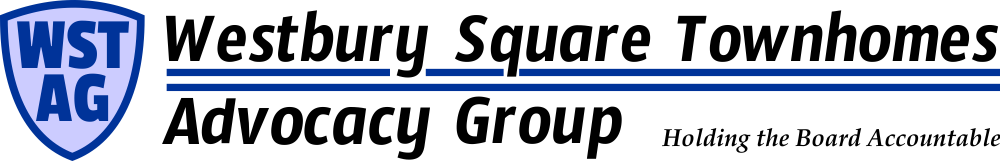
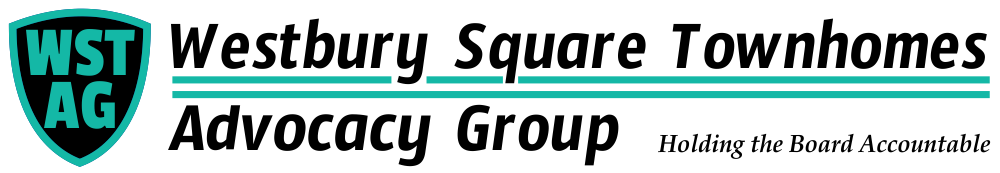
May5-A

diff --git a/src/app/home/panel-bottom/panel-bottom.component.html b/src/app/home/panel-bottom/panel-bottom.component.html
@@ -1,22 +1,28 @@
 <div class="sidebar-container">
-    <div class="not-sidebar">
-      <div class="paragraph-header">By-Laws Update</div>
-      <p-divider></p-divider>
-      <div class="paragraph-copy">
-        Below is the opening paragraph to the current WST By-laws.  As is obvious, they were written by and for the original developer, not the homeowners.  
-        They are therefore heavily skewed toward a powerful president rather than a limited and accountable one.<br>
-        It is a the top priority of WSTAG to update the WST by-laws so homeowners have a greater say in how their investment is managed.<br>
-        To participate in the process, sign in to your account and go to the Forum.
-      </div>
-      <p-divider></p-divider>
-      <div class="paragraph-copy">
-        WHEREAS, ZAR PROPERTIES, LTD., a California limited partnership authorized to do business in the State of Texas, is the sole owner of the real property hereinafter described, and is improving and developing said property by converting to a condominium project thereon, consisting of 14 one (1) and two (2) story buildings, containing a total of one hundred ninety-five (195) individual condominium units, together with certain other facilities and structures as appurtenances thereto, which condominium project is known as WESTBURY SQUARE TOWNHOMES. 
-WHEREAS, ZAR PROPERTIES, LTD. desires to establish the By—laws pertaining to the operation of said project; 
-NOW, THEREFORE, ZAR PROPERTIES, LTD. does hereby establish the following By-laws governing the said WESTBURY SQUARE TOWNHOMES. 
-      </div>
-      <p-divider></p-divider>
+  <div class="not-sidebar">
+    <div class="paragraph-header">By-Laws Update</div>
+    <div class="paragraph-copy">
+      The ByLaws for WST were written in 1979 by the building contractor, and
+      grant almost dictatorial powers to the President of the HOA. These bylaws
+      were never intended to be permanent, and should have been updated in the
+      early 1980's. As it stands now, there are loop holes and policies that
+      allow for the dishonest and corrupt collection of proxies that keep
+      corrupt boards in power. Please see the ByLaws section under Committees
+      for more information.
     </div>
-    <div class="sidebar200">
-      <img class="images" src="assets\images\IMG_3975.jpg" />
+
+    <div class="paragraph-copy">
+      Below is the opening paragraph to the current WST By-laws. As is obvious,
+      they were written by and for the original developer, not the homeowners.
+      They are therefore heavily skewed toward a powerful president rather than
+      a limited and accountable one.<br />
+      It is a the top priority of WSTAG to update the WST by-laws so homeowners
+      have a greater say in how their investment is managed.<br />
+      To participate in the process, sign in to your account and go to the
+      Forum.
     </div>
   </div>
+  <div class="sidebar200">
+    <img class="images" src="assets\images\IMG_4003.jpg" />
+  </div>
+</div>

diff --git a/src/app/topbar-menu/topbar-menu.component.ts b/src/app/topbar-menu/topbar-menu.component.ts
@@ -17,37 +17,6 @@ export class TopbarMenuComponent implements OnInit {
             icon: 'pi pi-fw pi-home',
         },
         {
-            label: 'HOA',
-            icon: 'pi pi-fw pi-sitemap',
-            items: [
-                {
-                    label: 'Meeting Minutes',
-                    icon: 'pi pi-fw pi-file-pdf',
-                    routerLink:'hoa/hoa-meetings',
-                },
-                {
-                    label: 'Current Affairs',
-                    icon: 'pi pi-fw pi-bars',
-                    routerLink:"hoa/hoa-issues",
-                },
-                {
-                    label: 'Major Expenditures',
-                    icon: 'pi pi-fw pi-dollar',
-                    routerLink:'hoa/hoa-expenditures',
-                },
-                {
-                    label: 'Documents',
-                    icon: 'pi pi-fw pi-align-center',
-                    routerLink:'hoa/hoa-docs',
-                },
-                {
-                    label: 'Board Members',
-                    icon: 'pi pi-fw pi-trash',
-                    routerLink:'hoa/hoa-members',
-                },
-            ]
-        },
-        {
             label: 'Committees',
             icon: 'pi pi-fw pi-users',
             items: [
@@ -78,16 +47,42 @@ export class TopbarMenuComponent implements OnInit {
                 },
             ]
         },
-        
         {
-            label: 'Events',
-            icon: 'pi pi-fw pi-calendar',
-            routerLink:'/calendar'
+            label: 'HOA',
+            icon: 'pi pi-fw pi-sitemap',
+            items: [
+                {
+                    label: 'Meeting Minutes',
+                    icon: 'pi pi-fw pi-file-pdf',
+                    routerLink:'hoa/hoa-meetings',
+                },
+                {
+                    label: 'Current Affairs',
+                    icon: 'pi pi-fw pi-bars',
+                    routerLink:"hoa/hoa-issues",
+                },
+                {
+                    label: 'Major Expenditures',
+                    icon: 'pi pi-fw pi-dollar',
+                    routerLink:'hoa/hoa-expenditures',
+                },
+                {
+                    label: 'Documents',
+                    icon: 'pi pi-fw pi-align-center',
+                    routerLink:'hoa/hoa-docs',
+                },
+                {
+                    label: 'Board Members',
+                    icon: 'pi pi-fw pi-trash',
+                    routerLink:'hoa/hoa-members',
+                },
+            ]
         },
+       
         {
             label: 'Forum',
             icon: 'pi pi-fw pi-book',
-            routerLink:'/calendar'
+            routerLink:'/forum'
         },
         {
             label: 'Members',

diff --git a/src/app/home/panel-top/panel-top.component.html b/src/app/home/panel-top/panel-top.component.html
@@ -1,23 +1,18 @@
 <div class="sidebar-container">
-    <div class="not-sidebar">
-        <div class="paragraph-header">Introduction</div>
-        <div class="paragraph-copy">
-            The Westbury Square Townhomes Advocacy Group exists to provide homeowners with current, complete and accurate concerning the management, finances and leadership of the HOA.
-            The WST HOA Board of Directors works for, and should be held accountable to the members of the Association (the homeowners).  
-            The Westbury Square Townhomes Advocacy Group is dedicated to providing WST homeowners with up-to-date and accurate information concerning the HOA Board of Directorsand other happening, events, and 
-        </div>
-        <p-divider></p-divider>
-        <div class="paragraph-header">Priorities</div>
-        <div class="paragraph-copy">
-            The ByLaws for WST were written in 1979 by the building contractor, and grant almost dictatorial powers to the President of the HOA. These bylaws were never 
-            intended to be permanent, and should have been updated in the early 1980's. 
-            As it stands now, there are loop holes and policies that allow for the dishonest and corrupt collection of proxies that keep corrupt boards in power.
-            Please see the ByLaws section under Committees for more information.
-        </div>
-        <p-divider></p-divider>
-        
+  <div class="not-sidebar">
+    <div class="paragraph-header">Introduction</div>
+    <div class="paragraph-copy">
+      The Westbury Square Townhomes Advocacy Group exists to provide homeowners
+      with current, complete and accurate concerning the management, finances
+      and leadership of the HOA. The WST HOA Board of Directors works for, and
+      should be held accountable to the members of the Association (the
+      "Members"). The Westbury Square Townhomes Advocacy Group is dedicated to
+      providing WST homeowners with up-to-date and accurate information
+      concerning the HOA Board of Directors and other happening, events, and
     </div>
-    <div class="sidebar200">
-        <img  class="images" src="assets\images\IMG_4009.jpg"/>
-    </div>
+   
+  </div>
+  <div class="sidebar200">
+    <img class="images" src="assets\images\IMG_4009.jpg" />
+  </div>
 </div>

diff --git a/src/app/app.module.ts b/src/app/app.module.ts
@@ -24,7 +24,6 @@ import { RulesComponent } from './committees/rules/rules.component';
 import { NavErrorComponent } from './library/nav-error/nav-error.component';
 import { HospitalityComponent } from './committees/hospitality/hospitality.component';
 import { DialogComponent } from './library/dialog/dialog.component';
-import { EventCalendarComponent } from './event-calendar/event-calendar.component';
 import { PanelTopComponent } from './home/panel-top/panel-top.component';
 import { PanelBottomComponent } from './home/panel-bottom/panel-bottom.component';
 import { PanelMiddleComponent } from './home/panel-middle/panel-middle.component';
@@ -33,6 +32,10 @@ import { ExpendituresComponent } from './hoa/expenditures/expenditures.component
 import { DocsComponent } from './hoa/docs/docs.component';
 import { UsersComponent } from './users/users.component';
 import { SigninComponent } from './users/signin/signin.component';
+import { ForumComponent } from './forum/forum.component';
+import { ForumService } from './services/forum.service';
+import { SupabaseService } from './services/supabase.service';
+import { UserService } from './services/user.service';
 
 @NgModule({
   declarations: [
@@ -51,7 +54,6 @@ import { SigninComponent } from './users/signin/signin.component';
     NavErrorComponent,
     HospitalityComponent,
     DialogComponent,
-    EventCalendarComponent,
     PanelTopComponent,
     PanelBottomComponent,
     PanelMiddleComponent,
@@ -60,6 +62,7 @@ import { SigninComponent } from './users/signin/signin.component';
     DocsComponent,
     UsersComponent,
     SigninComponent,
+    ForumComponent,
   ],
   imports: [
     BrowserModule,
@@ -73,7 +76,7 @@ import { SigninComponent } from './users/signin/signin.component';
     DividerModule,
     TableModule
   ],
-  providers: [],
+  providers: [ForumService,SupabaseService,UserService],
   bootstrap: [AppComponent,DialogComponent]
 })
 export class AppModule { }

diff --git a/src/app/app-routing.module.ts b/src/app/app-routing.module.ts
@@ -11,11 +11,11 @@ import { EventsComponent } from './committees/events/events.component';
 import { BylawsComponent } from './committees/bylaws/bylaws.component';
 import { RulesComponent } from './committees/rules/rules.component';
 import { HospitalityComponent } from './committees/hospitality/hospitality.component';
-import { EventCalendarComponent } from './event-calendar/event-calendar.component';
 import { NavErrorComponent } from './library/nav-error/nav-error.component';
 import { ExpendituresComponent } from './hoa/expenditures/expenditures.component';
 import { DocsComponent } from './hoa/docs/docs.component';
 import { UsersComponent } from './users/users.component';
+import { ForumComponent } from './forum/forum.component';
 
 
 const routes: Routes = [
@@ -47,9 +47,8 @@ const routes: Routes = [
             {path:'committees-hospitality', component: HospitalityComponent},
   
           ]},
-      {path:'calendar', component: EventCalendarComponent},
       {path:'members', component: UsersComponent},
-      {path:'events', component: NavErrorComponent },
+      {path:'forum', component: ForumComponent },
       {path:'404', component: NavErrorComponent },
       {path:'**', redirectTo: '404',outlet:"app"},
     ]

diff --git a/src/app/topbar-menu/topbar-menu.component.scss b/src/app/topbar-menu/topbar-menu.component.scss
@@ -1,17 +1,48 @@
 .router-outlet {
-    display: block;
-    margin-right: auto;
-    margin-left: auto;
-    width: 100%;
-    padding: 10px 0;
-  }
+  display: block;
+  margin-right: auto;
+  margin-left: auto;
+  width: 100%;
+  padding: 10px 0;
+}
 
-  .app-container{
-    display: block;
-    margin-right: auto;
-    margin-left: auto;
-    width: 100%;
-    min-width: 360px;
-    max-width: 1000px;
-    padding: 10px 0;
+.app-container {
+  display: block;
+  margin-right: auto;
+  margin-left: auto;
+  width: 100%;
+  min-width: 360px;
+  max-width: 1000px;
+  padding: 10px 0;
+}
+
+.red-divider {
+  border-top: 2px solid #f84444;
+  border-bottom: 2px solid #f84444;
+  width: 100%;
+  font-size: small;
+  text-align: center;
+}
+
+.header-img {
+  background-position: center center;
+  background-attachment: fixed;
+  background-repeat: no-repeat;
+  background-size: cover;
+  background-color: aqua;
+  border: 0;
+  width:auto;
+  height:auto;
+}
+
+@media (min-width: 300px) {
+  .header-img {
+    background-image: url('../../assets/images/WST-AG-mobile.png');
   }
+}
+
+@media (min-width: 900px) {
+  .header-img {
+    background-image: url('../../assets/images/WST-AG.png');
+  }
+}

diff --git a/src/app/topbar-menu/topbar-menu.component.html b/src/app/topbar-menu/topbar-menu.component.html
@@ -1,7 +1,16 @@
 <div class="app-container">
-    <img  class="images" src="assets\images\WST-AG.png"/>
+    <picture>
+        <source srcset="../../assets/images/WST-AG.png" media="(min-width: 1000px)" />
+        <source srcset="../../assets/images/WST-AG-mobile.png" />
+        <img srcset="../../assets/images/WST-AG.png" alt="My default image" />
+      </picture>
+   
+    <div class="red-divider">
+        This is a private website by and for WST Owners and is not affiliated with the official WST HOA.
+    </div>
     <div class="card">
         <p-menubar [model]="items"></p-menubar>
     </div>
+    
     <div  class="router-outlet"><router-outlet></router-outlet></div>
 </div>

diff --git a/src/app/home/panel-middle/panel-middle.component.html b/src/app/home/panel-middle/panel-middle.component.html
@@ -1,12 +1,12 @@
 <div class="sidebar-container">
   <div class="not-sidebar">
-    <div class="paragraph-header">Parking</div>
+    <div class="paragraph-header">Mission Statement</div>
     <div class="paragraph-copy">
-      Parking on Chimney rock has been extended to 2:00AM.
+      The primary mission of WSTAG is to represent and inform the the Members of the Association 
     </div>
     <p-divider></p-divider>
   </div>
   <div class="sidebar200">
-    <img class="images" src="assets\images\IMG_3975.jpg" />
+    <img class="images" src="assets\images\IMG_4013.jpg" />
   </div>
 </div>

diff --git a/src/styles.scss b/src/styles.scss
@@ -1,4 +1,4 @@
-@import "primeng/resources/themes/lara-light-blue/theme.css";
+@import "primeng/resources/themes/lara-light-teal/theme.css";
 @import "primeng/resources/primeng.css";
 @import "primeicons/primeicons.css";
 
@@ -37,7 +37,7 @@ body {
     display: block;
     font-size: 1.3em;
     font-weight: bold;
-    color: darkblue;
+    color: #084A42;
 }
 .paragraph-header {
     display: block;
@@ -67,3 +67,13 @@ body {
     gap: 1rem;
     justify-content: space-between;
 }
+
+.img-border{
+    border: 2px solid #000;
+}
+
+.no-border{
+    border:0;
+}
+
+

diff --git a/src/app/forum/forum.component.ts b/src/app/forum/forum.component.ts
@@ -1,0 +1,10 @@
+import { Component } from '@angular/core';
+
+@Component({
+  selector: 'app-forum',
+  templateUrl: './forum.component.html',
+  styleUrls: ['./forum.component.scss']
+})
+export class ForumComponent {
+
+}

diff --git a/src/app/services/forum.service.ts b/src/app/services/forum.service.ts
@@ -1,0 +1,9 @@
+import { Injectable } from '@angular/core';
+
+@Injectable({
+  providedIn: 'root'
+})
+export class ForumService {
+
+  constructor() { }
+}

diff --git a/src/app/forum/forum.component.html b/src/app/forum/forum.component.html
@@ -1,0 +1,1 @@
+<p>forum works!</p>
